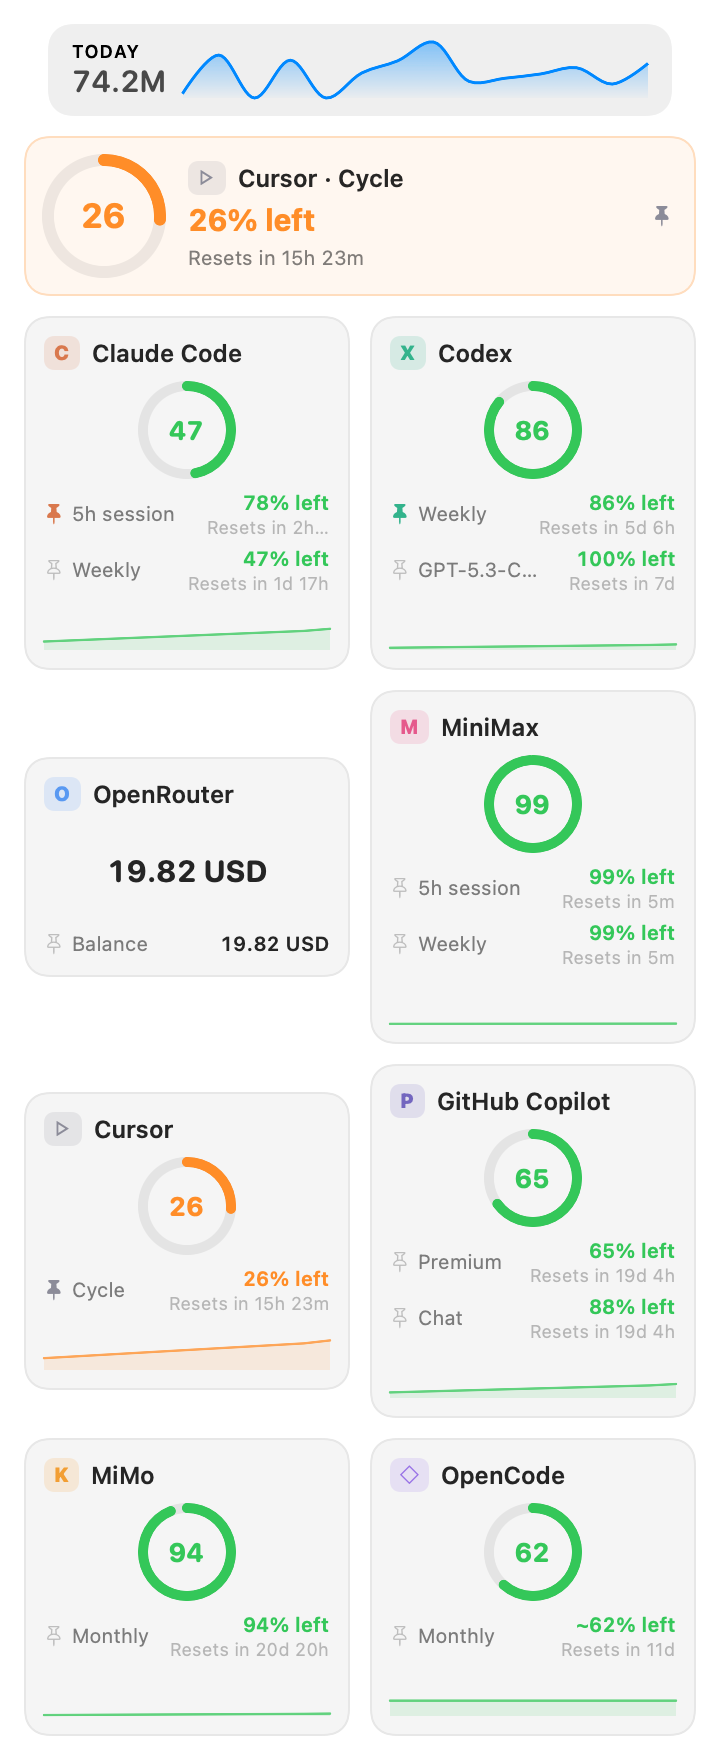
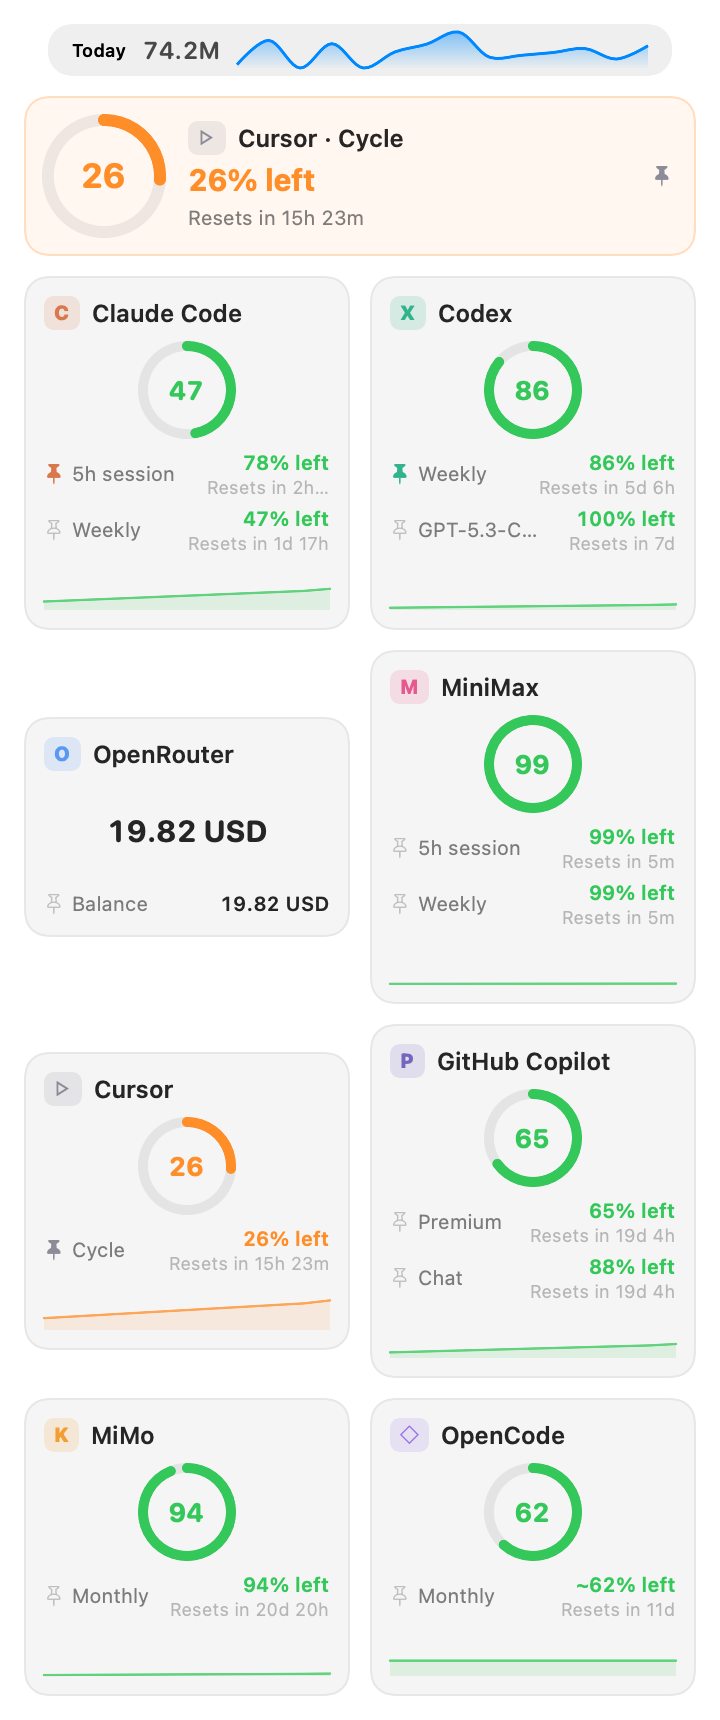
fix(ui): faixa de hoje no popover vira uma linha só, cota some da dobra de 480pt
A faixa de duas linhas (rótulo + valor empilhados + gráfico de 28pt) empurrava a
segunda linha de cards de cota (OpenRouter/MiniMax) para fora da área visível sem
rolar, invertendo a prioridade cota > faixa de hoje do spec. Reduzida para uma
única linha (~36pt de acréscimo vs. antes desta task, contra ~56pt da versão
anterior) — a dobra de 480pt volta a mostrar hero + 2 linhas completas de cards,
paridade com o estado antes desta task.

diff --git a/Sources/OkTally/UI/PopoverView.swift b/Sources/OkTally/UI/PopoverView.swift
@@ -141,8 +141,13 @@ struct PopoverContentView: View {
         return best
     }
 
-    /// Volume de hoje + 14 dias, antes das cotas. A cota continua tendo prioridade: se o
-    /// espaço apertar, esta faixa é a primeira a sair.
+    /// Volume de hoje + 14 dias, antes das cotas. Fix round 1: a versão original (label +
+    /// valor empilhados + gráfico de 28pt) tomava ~100pt e derrubava uma linha inteira de
+    /// cards de cota para fora dos 480pt visíveis sem rolar — reprovada em revisão. Esta
+    /// versão é uma única linha (~30pt): rótulo, valor e o gráfico viram um traço fino de
+    /// fundo em vez de um bloco com altura própria. A cota continua tendo prioridade: se
+    /// mesmo compacta ela ainda espremer os cards, o caminho é remover a faixa, não a
+    /// cota — ver relatório da task.
     @ViewBuilder private var todayStrip: some View {
         if let analytics = appModel.aggregatedAnalytics {
             let totals = TrendSeries.dailyTotals(analytics, lastDays: 14)
@@ -150,17 +155,17 @@ struct PopoverContentView: View {
             let today = totals.last?.tokens ?? 0
             if today > 0 {
                 HStack(spacing: Theme.Space.sm) {
-                    VStack(alignment: .leading, spacing: 0) {
-                        SectionHeader(L("Hoje"))
-                        Text(TokenAnalytics.compactTokens(today))
-                            .font(Theme.Font.metricMedium)
-                            .monospacedDigit()
-                    }
+                    Text(L("Hoje"))
+                        .font(Theme.Font.label)
+                        .foregroundStyle(.secondary)
+                    Text(TokenAnalytics.compactTokens(today))
+                        .font(.system(size: 12, weight: .semibold, design: .rounded))
+                        .monospacedDigit()
                     DailyTokensAreaChart(points: totals, color: .accentColor)
-                        .frame(height: 28)
+                        .frame(height: 18)
                 }
                 .padding(.horizontal, Theme.Space.md)
-                .padding(.vertical, Theme.Space.sm)
+                .padding(.vertical, Theme.Space.xs)
                 .glassChrome()
                 .padding(.horizontal, Theme.Space.md)
             }
